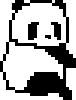
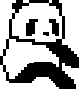
Movimiento y animaciones

diff --git a/PandaPOO/Game/main.py b/PandaPOO/Game/main.py
@@ -1,4 +1,5 @@
 import pygame
+from master import Master
 from ent import Ent
 from panda import Panda
 from enemy import Enemy
@@ -13,10 +14,98 @@ pygame.display.set_icon(icon)
 background_image = pygame.image.load("PandaPOO/Assets/Uses/background.png")
 
 running = True
+
+master = Master(0, 0)
+panda = Panda(x=0, y=350, bamboo=2, orientation=0, speed=0, is_attacking=False)
+
+panda.rect = panda.sprites["idle_left"].get_rect()
+
+movement_delay = 10  
+frame_counter = 0  
+key_pressed = False
+up = False
+down = False
+
 while running == True:
+    
     for event in pygame.event.get():
         if event.type == pygame.QUIT:
             running = False
             
+        elif event.type == pygame.KEYDOWN:
+            if event.key == pygame.K_LEFT or event.key == pygame.K_RIGHT:
+                key_pressed = True
+                
+        elif event.type == pygame.KEYUP:
+            if event.key == pygame.K_UP:
+                up = False
+            elif event.key == pygame.K_DOWN:
+                down = False        
+    
+    keys = pygame.key.get_pressed()
+    
+    if keys[pygame.K_UP]:
+        panda.move_up(panda.y, panda.speed)
+        up = True
+
+    if keys[pygame.K_DOWN]:
+        panda.move_down(panda.y, panda.speed)
+        down = True
+
+    
+    if key_pressed and frame_counter >= movement_delay:
+        if keys[pygame.K_LEFT] and not up and not down:
+            panda.move_left(panda.bamboo, panda.orientation)
+        elif keys[pygame.K_RIGHT] and not up and not down:
+            panda.move_right(panda.bamboo, panda.orientation)
+
+
+            
+        frame_counter = 0  
+        key_pressed = False  
+        
+    frame_counter += 1
+            
+    if panda.bamboo == 1 and panda.orientation == 0:
+        panda.x = 42
+        
+    elif panda.bamboo == 2 and panda.orientation == 0:
+        panda.x = 185
+        
+    elif panda.bamboo == 3 and panda.orientation == 0:
+        panda.x = 329
+
+    elif panda.bamboo == 1 and panda.orientation == 1:
+        panda.x = 77
+
+    elif panda.bamboo == 2 and panda.orientation == 1:
+        panda.x = 220
+
+    elif panda.bamboo == 3 and panda.orientation == 1:
+        panda.x = 364
+        
+    if up == False and down == False:
+        if panda.orientation == 0:
+            sprite = panda.sprites["idle_left"]
+        elif panda.orientation == 1:
+            sprite = panda.sprites["idle_right"]
+    elif up == True:
+        if panda.orientation == 0:
+            sprite = panda.sprites["up_left"]
+        elif panda.orientation == 1:
+            sprite = panda.sprites["up_right"]
+    elif down == True:
+        if panda.orientation == 0:
+            sprite = panda.sprites["down_left"]
+        elif panda.orientation == 1:
+            sprite = panda.sprites["down_right"]
+            
+
+        
+    panda.rect = sprite.get_rect()
+    panda.rect.x = panda.x
+    panda.rect.y = panda.y
+            
     screen.blit(background_image, (0, 0))  
+    screen.blit(sprite, (panda.x, panda.y))
     pygame.display.flip()

diff --git a/PandaPOO/Game/panda.py b/PandaPOO/Game/panda.py
@@ -3,10 +3,10 @@ from ent import Ent
 from enemy import Enemy
 
 class Panda(Ent):
-    def __init__(self, y, bamboo, orientation, speed, is_attacking):
-        super().__init__(y, bamboo, orientation, speed)
+    def __init__(self, x, y, bamboo, orientation, speed, is_attacking):
+        super().__init__(x, y, bamboo, orientation, speed)
         self.is_attacking = False
-        self.speed = 40
+        self.speed = 6
         self.sprites = {
             "idle_left": pygame.image.load("PandaPOO/Assets/Panda/panda_idle_left.png"),
             "idle_right": pygame.image.load("PandaPOO/Assets/Panda/panda_idle_right.png"),
@@ -14,29 +14,31 @@ class Panda(Ent):
             "up_right": pygame.image.load("PandaPOO/Assets/Panda/panda_up_right.png"),
             "down_left": pygame.image.load("PandaPOO/Assets/Panda/panda_down_left.png"),
             "down_right": pygame.image.load("PandaPOO/Assets/Panda/panda_down_right.png")
-        }                               
+        }  
+        self.current_sprite = self.sprites["idle_left"]                            
         
     def move_left(self, bamboo, orientation):
-        if bamboo != 1 and bamboo == 0:       
-            bamboo -= 1
+        if self.orientation == 0 and self.bamboo != 1:
+            self.orientation = 1 
+            self.bamboo -= 1 
+        elif self.orientation == 1:
+            self.orientation = 0
+
+    def move_right(self, bamboo, orientation):
+        if self.orientation == 1 and self.bamboo != 3:
+            self.orientation = 0 
+            self.bamboo += 1 
+        elif self.orientation == 0:
+            self.orientation = 1
             
-        if orientation == 1:
-            orientation = 0
-    
-    def move_right(self, bamboo, orientation):     
-        if bamboo != 3 and orientation == 1:       
-            bamboo += 1
-            
-        if orientation == 0:
-            orientation = 1
-                        
-    def attack(self, y, velocidad):
-        atacando = True
-        velocidad = 60
-        move_down()
-        if y == y.enemy + 0.9:
-            enemy.recibir_dano()        
-            
-            
+    def move_up(self, y, speed):
+        if self.y > 2:
+            self.y -= self.speed
+
+    def move_down(self, y, speed):    
+        if self.y < 752:
+            self.y += self.speed
+
+                             
     def die(self):  
         master.game_over()     

diff --git a/PandaPOO/Game/enemy.py b/PandaPOO/Game/enemy.py
@@ -4,8 +4,8 @@ import time
 
 class Enemy(Ent):
     
-    def __init__(self, y, bamboo, orientation, speed):
-        super().__init__(y, bamboo, orientation, speed)
+    def __init__(self, x, y, bamboo, orientation, speed):
+        super().__init__(x, y, bamboo, orientation, speed)
         self.speed = 25
         self.sprites = {
             "enemy.left": pygame.image.load("PandaPOO/Assets/Enemy/enemy_left.png"),

diff --git a/PandaPOO/Game/ent.py b/PandaPOO/Game/ent.py
@@ -1,7 +1,8 @@
 import pygame
 
 class Ent:  
-    def __init__(self, y, bamboo, orientation, speed):
+    def __init__(self, x, y, bamboo, orientation, speed):
+        self.x = x
         self.y = y 
         self.bamboo = bamboo                        
         self.orientation = orientation     
